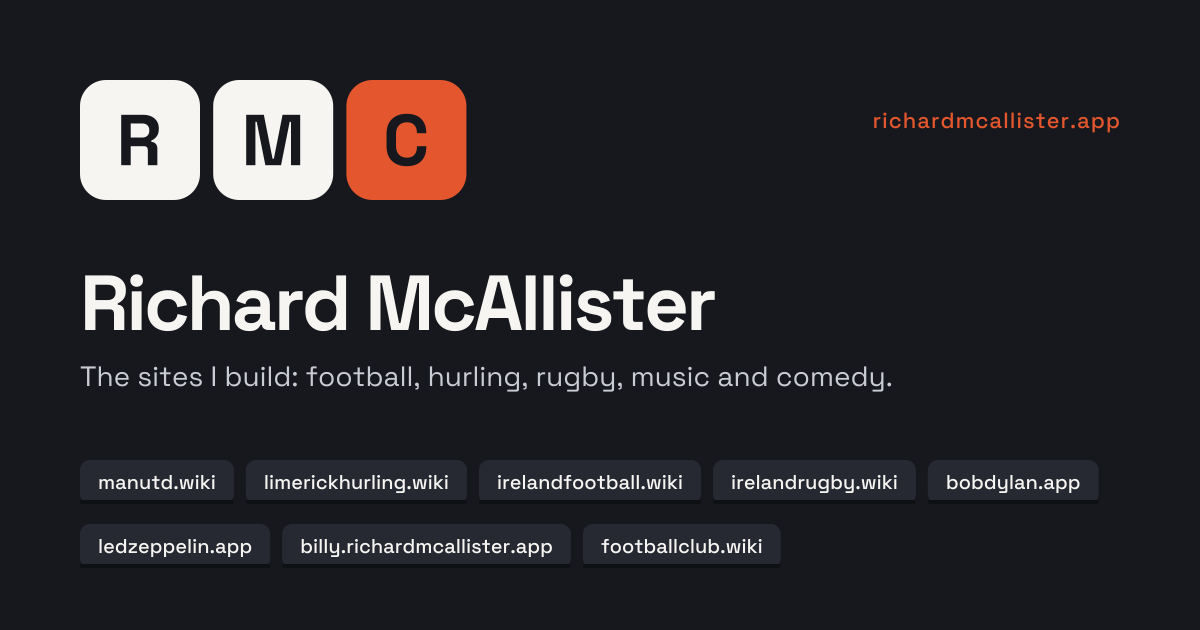
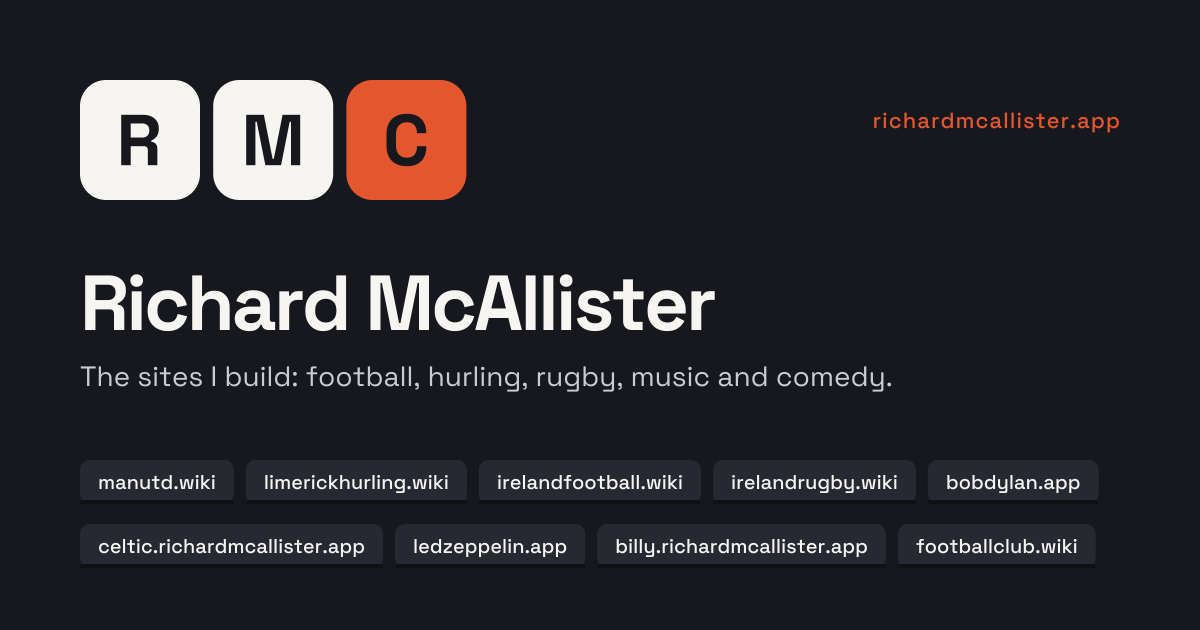
Add Celtic as a full site: nav, front-page Sport list, a brief beside United, footer, share image; eight sites
Claude-Session: https://claude.ai/code/session_01QYs4q3iex6bDd6muF5HeVR

Changed region(s): [[0.0617, 0.8444, 0.4625, 0.9048], [0.4933, 0.8444, 0.74, 0.9048], [0.7708, 0.8444, 0.8942, 0.8746]]

diff --git a/public/index.html b/public/index.html
@@ -4,11 +4,11 @@
 <meta charset="utf-8">
 <meta name="viewport" content="width=device-width,initial-scale=1,viewport-fit=cover">
 <title>Richard McAllister · sites</title>
-<meta name="description" content="Richard McAllister's independent sites: manutd.wiki, limerickhurling.wiki, irelandfootball.wiki, irelandrugby.wiki, bobdylan.app, ledzeppelin.app and Billy Connolly.">
+<meta name="description" content="Richard McAllister's independent sites: manutd.wiki, celtic.richardmcallister.app, limerickhurling.wiki, irelandfootball.wiki, irelandrugby.wiki, bobdylan.app, ledzeppelin.app and Billy Connolly.">
 <meta name="theme-color" content="#FBFAF7" media="(prefers-color-scheme: light)">
 <meta name="theme-color" content="#141311" media="(prefers-color-scheme: dark)">
 <meta property="og:title" content="Richard McAllister · sites">
-<meta property="og:description" content="Seven fan sites for the things I follow: United, Limerick hurling, Ireland football and rugby, Bob Dylan, Led Zeppelin and Billy Connolly.">
+<meta property="og:description" content="Eight fan sites for the things I follow: United, Celtic, Limerick hurling, Ireland football and rugby, Bob Dylan, Led Zeppelin and Billy Connolly.">
 <meta property="og:type" content="website">
 <meta property="og:url" content="https://richardmcallister.app/">
 <meta property="og:image" content="https://richardmcallister.app/og-image-1200x630.png">
@@ -31,10 +31,11 @@
 <header>
   <div class="mast">
     <a class="name" href="/">Richard McAllister</a>
-    <p class="dateline">Sport, music &amp; comedy · seven sites<br><span id="today">Sunday 8 November 2026</span> · Skåne</p>
+    <p class="dateline">Sport, music &amp; comedy · eight sites<br><span id="today">Sunday 8 November 2026</span> · Skåne</p>
   </div>
   <nav class="sections" aria-label="Sections">
     <a href="#united" style="--c:var(--mu)">United</a>
+    <a href="#celtic" style="--c:var(--cel)">Celtic</a>
     <a href="#limerick" style="--c:var(--lim)">Hurling</a>
     <a href="#ireland-football" style="--c:var(--irf)">Ireland football</a>
     <a href="#ireland-rugby" style="--c:var(--irr)">Ireland rugby</a>
@@ -64,6 +65,7 @@
     <h2 id="fx-h">Sport</h2>
     <ul class="fx">
       <li><a href="https://manutd.wiki/" style="--c:var(--mu)"><img class="bare" src="/logos/manutd.png" alt="" width="30" height="30"><b>Manchester United</b><small>Next match and where to watch</small></a></li>
+      <li><a href="https://celtic.richardmcallister.app/" style="--c:var(--cel)"><img src="/logos/celtic.png" alt="" width="30" height="30"><b>Celtic</b><small>Results since 1888, honours, the Old Firm</small></a></li>
       <li><a href="https://limerickhurling.wiki" style="--c:var(--lim)"><img src="/logos/limerickhurling.png" alt="" width="30" height="30"><b>Limerick hurling</b><small>Next fixture, last result, scorers</small></a></li>
       <li><a href="https://irelandfootball.wiki" style="--c:var(--irf)"><img src="/logos/irelandfootball.png" alt="" width="30" height="30"><b>Ireland football</b><small>Broadcasters by country, the group</small></a></li>
       <li><a href="https://irelandrugby.wiki" style="--c:var(--irr)"><img src="/logos/irelandrugby.png" alt="" width="30" height="30"><b>Ireland rugby</b><small>All five teams, results and tables</small></a></li>
@@ -126,6 +128,11 @@
     <a class="go" href="https://manutd.wiki">Open manutd.wiki</a>
   </section>
   <div class="irish">
+    <section class="brief-site" id="celtic" style="--c:var(--cel)" aria-labelledby="cel-h">
+      <div class="top"><img src="/logos/celtic.png" alt="" width="40" height="40"><h3 id="cel-h">Celtic<small>Celtic Football Club</small></h3></div>
+      <p>Every Celtic result since 1888, the honours, the squad and team news, and the full Old Firm record.</p>
+      <a class="go" href="https://celtic.richardmcallister.app">Open the Celtic site</a>
+    </section>
     <section class="brief-site" id="limerick" style="--c:var(--lim)" aria-labelledby="lim-h">
       <div class="top"><img src="/logos/limerickhurling.png" alt="" width="40" height="40"><h3 id="lim-h">limerickhurling.wiki<small>Limerick hurling</small></h3></div>
       <p>Find Limerick’s next fixture, see who scored last time, or browse the county’s honours.</p>
@@ -221,6 +228,7 @@
       <h2>Sport</h2>
       <ul>
         <li><a href="https://manutd.wiki/"><img class="bare" src="/logos/manutd.png" alt="" width="20" height="20" loading="lazy">manutd.wiki</a></li>
+        <li><a href="https://celtic.richardmcallister.app/"><img src="/logos/celtic.png" alt="" width="20" height="20" loading="lazy">Celtic</a></li>
         <li><a href="https://limerickhurling.wiki/"><img src="/logos/limerickhurling.png" alt="" width="20" height="20" loading="lazy">limerickhurling.wiki</a></li>
         <li><a href="https://irelandfootball.wiki/"><img src="/logos/irelandfootball.png" alt="" width="20" height="20" loading="lazy">irelandfootball.wiki</a></li>
         <li><a href="https://irelandrugby.wiki/"><img src="/logos/irelandrugby.png" alt="" width="20" height="20" loading="lazy">irelandrugby.wiki</a></li>
@@ -391,7 +399,7 @@
   document.getElementById("lead-btn").addEventListener("click",function(){var n=other();lead.setAttribute("aria-live","polite");
     if(still){tell(n);return}lead.classList.add("out");setTimeout(function(){tell(n);lead.classList.remove("out")},220)});
 
-  // On your birthday: every match and show on record for a calendar date, from all seven sites
+  // On your birthday: every match and show on record for a calendar date, from every site
   var OTD={
     mu:{n:"Manchester United",k:"United",u:"https://manutd.wiki",logo:"/logos/manutd.png",bare:1,c:"var(--mu)",one:"match",many:"matches"},
     cel:{n:"Celtic",k:"Celtic",u:"https://celtic.richardmcallister.app",logo:"/logos/celtic.png",c:"var(--cel)",one:"match",many:"matches"},

diff --git a/public/404.html b/public/404.html
@@ -19,10 +19,11 @@
 <header>
   <div class="mast">
     <a class="name" href="/">Richard McAllister</a>
-    <p class="dateline">Sport, music &amp; comedy · seven sites<br><span id="today">Today</span> · Skåne</p>
+    <p class="dateline">Sport, music &amp; comedy · eight sites<br><span id="today">Today</span> · Skåne</p>
   </div>
   <nav class="sections" aria-label="Sections">
     <a href="/#united" style="--c:var(--mu)">United</a>
+    <a href="/#celtic" style="--c:var(--cel)">Celtic</a>
     <a href="/#limerick" style="--c:var(--lim)">Hurling</a>
     <a href="/#ireland-football" style="--c:var(--irf)">Ireland football</a>
     <a href="/#ireland-rugby" style="--c:var(--irr)">Ireland rugby</a>
@@ -46,6 +47,7 @@
       <h2>Sport</h2>
       <ul>
         <li><a href="https://manutd.wiki/"><img class="bare" src="/logos/manutd.png" alt="" width="20" height="20" loading="lazy">manutd.wiki</a></li>
+        <li><a href="https://celtic.richardmcallister.app/"><img src="/logos/celtic.png" alt="" width="20" height="20" loading="lazy">Celtic</a></li>
         <li><a href="https://limerickhurling.wiki/"><img src="/logos/limerickhurling.png" alt="" width="20" height="20" loading="lazy">limerickhurling.wiki</a></li>
         <li><a href="https://irelandfootball.wiki/"><img src="/logos/irelandfootball.png" alt="" width="20" height="20" loading="lazy">irelandfootball.wiki</a></li>
         <li><a href="https://irelandrugby.wiki/"><img src="/logos/irelandrugby.png" alt="" width="20" height="20" loading="lazy">irelandrugby.wiki</a></li>

diff --git a/CLAUDE.md b/CLAUDE.md
@@ -2,8 +2,8 @@
 
 Static showcase of Richard's sites. No build step, no Worker script: `public/` is served as Workers static assets.
 
-Design: the Sunday back pages of a broadsheet that covers only Richard's teams, his bands (Dylan and Led Zeppelin) and Billy Connolly (see `DESIGN.md` and the direction contract in `.impeccable/surfaces/public-index-html.md`).
-Masthead over a double rule; front page with the 1886 archive lead, a Sport column and a Music column; then On your birthday (a day/month picker over every match and show on record for that date, from every site including Celtic; highlights ranked by an importance score, trimmed to two sites on phones), then The sites (United wide, three Irish briefs, Dylan and Led Zeppelin side by side in Music, Billy Connolly alone in Comedy), an agate table of each site's real data sources and the hard part and an About column with the RMC mark on the byline.
+Design: the Sunday back pages of a broadsheet that covers only Richard's teams (United, Celtic, Limerick, Ireland), his bands (Dylan and Led Zeppelin) and Billy Connolly (see `DESIGN.md` and the direction contract in `.impeccable/surfaces/public-index-html.md`).
+Masthead over a double rule; front page with the 1886 archive lead, a Sport column and a Music column; then On your birthday (a day/month picker over every match and show on record for that date, from every site including Celtic; highlights ranked by an importance score, trimmed to two sites on phones), then The sites (United wide; Celtic and three Irish briefs beside it; Dylan and Led Zeppelin side by side in Music, Billy Connolly alone in Comedy), an agate table of each site's real data sources and the hard part and an About column with the RMC mark on the byline.
 Libre Franklin for headlines and labels, Source Serif 4 for reading, both self-hosted from `public/fonts/` (no Google Fonts link).
 Day edition on newsprint white `#FBFAF7`; Night edition on `#141311`.
 **Every colour goes through a token in `site.css` `:root`** and is redefined for dark under both the media query and `[data-theme="dark"]`. Each site's colour (`--mu`, `--cel`, `--lim`, `--irf`, `--irr`, `--bd`, `--lz`, `--bc`) lives only inside its own story or section.

diff --git a/DESIGN.md b/DESIGN.md
@@ -304,3 +304,5 @@ The Music column opens on a random real night from the Dylan or Led Zeppelin arc
 - **Don't** use a site's colour outside its own section, or introduce a house accent colour.
 - **Don't** use crests as decoration, sports-graphics clichés or any costume treatment such as teletext.
 - **Don't** use straight quotes or apostrophes in copy.
+
+Celtic (celtic.richardmcallister.app) has a brief at the top of the right-hand Sport column, above the three Irish briefs, and appears in the nav, the front-page Sport list, the footer and the share image. The masthead counts eight sites.

diff --git a/README.md b/README.md
@@ -1,6 +1,6 @@
 # richardmcallister.app
 
-Showcase for Richard McAllister's sites: manutd.wiki, limerickhurling.wiki, irelandfootball.wiki,
+Showcase for Richard McAllister's sites: manutd.wiki, celtic.richardmcallister.app, limerickhurling.wiki, irelandfootball.wiki,
 irelandrugby.wiki, bobdylan.app, ledzeppelin.app and billy.richardmcallister.app (plus footballclub.wiki under "Also building").
 
 - `public/` — the whole site: `index.html`, `site.css`, `404.html`, `favicon.svg`, `_headers`
